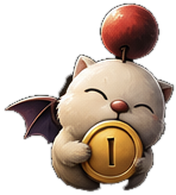
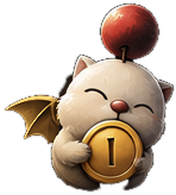
Auto lot on: the moogle's wing is gold and beats slowly, each beat letting fall a tiny trail of gold dust (the coin shine and stars removed)

Changed region(s): [[0.0284, 0.4615, 0.3409, 0.7385]]

diff --git a/README.md b/README.md
@@ -24,7 +24,7 @@ It's always off when you log in. Only the moogle's place and size are saved.
 
 A small moogle always stays on screen, so you can see at a glance what's on:
 
-- **Holding a gold coin:** Auto lot is on. The coin shines and little gold stars twinkle around it.
+- **Holding a gold coin, with a gold wing:** Auto lot is on. The wing beats slowly, and each beat leaves a tiny trail of gold dust.
 - **Holding a red X:** Auto pass is on.
 - **Grey:** off.
 
